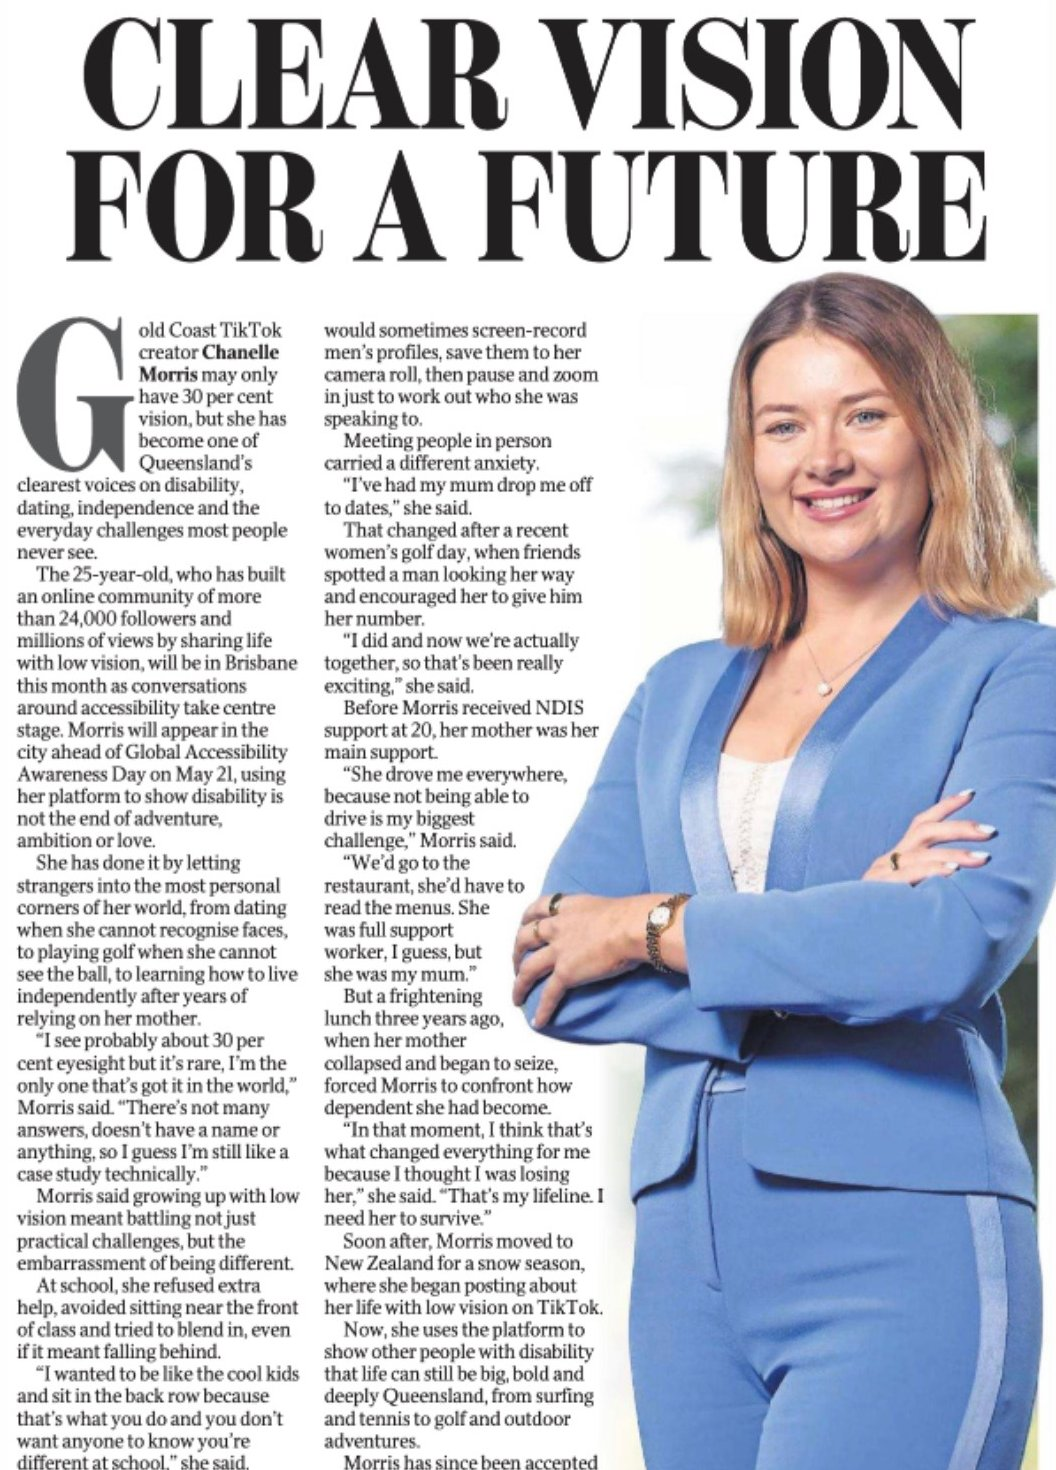
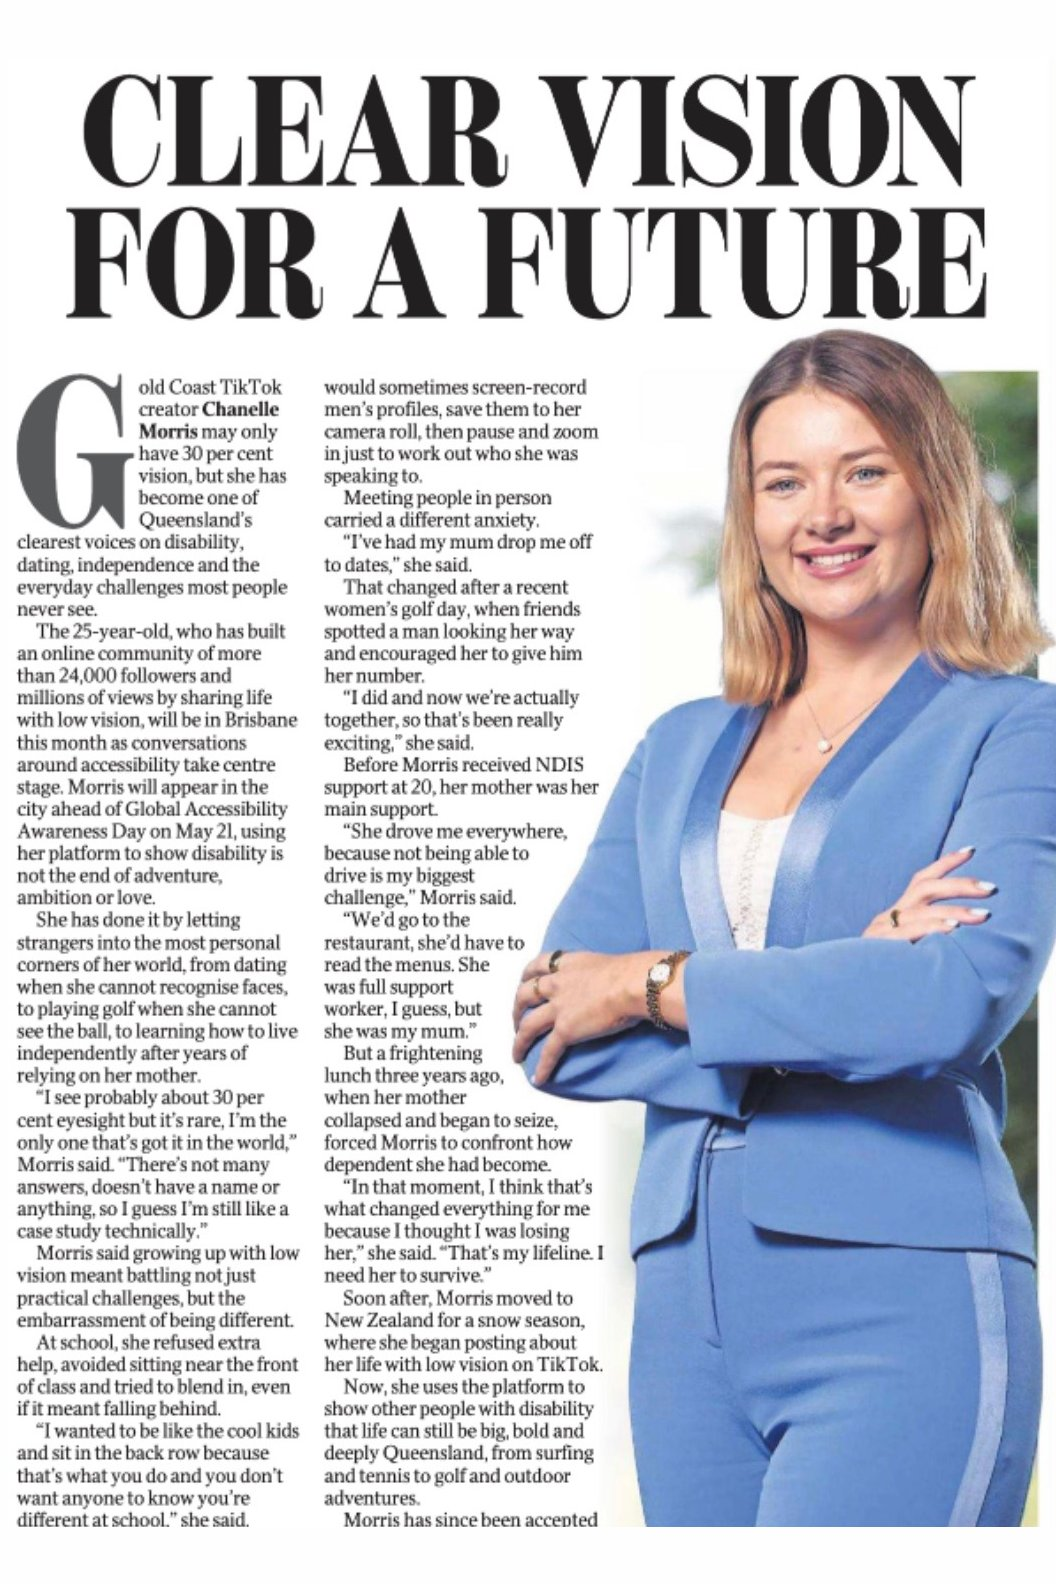
Press section: same size as Get in touch, at the bottom of Media
The newspaper page now sits beside the text in the page-hero layout, at
the same size as the Get in touch photo (padded with paper white to the
site's 2:3 frame), instead of filling the screen. On Media it moves to
the bottom, in green so it doesn't merge with the ink call to action.

diff --git a/style.css b/style.css
@@ -903,127 +903,6 @@ em {
 
 
 /* ==========================================================================
-   Press (Home and Media)
-   ========================================================================== */
-
-/* A full screen: the newspaper article fills it, darkened on the side where
-   the headline sits so the big text stays readable; her photo shows through
-   on the other side. The article's text is blurred in this image (it's
-   texture here); "Read the article" opens the readable page. */
-.press {
-  position: relative;
-  isolation: isolate;
-  display: grid;
-  align-items: center;
-  min-height: var(--screen-h);
-  padding: clamp(2rem, 6svh, 5rem) var(--pad);
-  overflow: hidden;
-  background: var(--ink);
-  color: var(--off-white);
-}
-
-.press__image {
-  position: absolute;
-  inset: 0;
-  z-index: -2;
-  width: 100%;
-  height: 100%;
-  object-fit: cover;
-  object-position: 50% 12%;   /* her face, not the article's last lines */
-}
-
-.press::before {
-  content: "";
-  position: absolute;
-  inset: 0;
-  z-index: -1;
-  background: linear-gradient(to right,
-    rgb(26 20 22 / 0.93) 0%,
-    rgb(26 20 22 / 0.86) 45%,
-    rgb(26 20 22 / 0.2) 75%,
-    rgb(26 20 22 / 0) 100%);
-}
-
-.press__text {
-  max-width: 55%;
-}
-
-.press__label {
-  margin: 0 0 1.25rem;
-  font-size: var(--nav-size);
-  color: var(--pink);
-}
-
-/* The hero name's stretched capitals. Each line is about 3.8em wide, sized to
-   fill the dark side. */
-.press__title {
-  display: grid;
-  gap: 0.2em;
-  margin: 0 0 0.35em;
-  padding-block: 0.06em;
-  font-size: min(13.5vw, 20svh);
-  font-weight: 400;
-  line-height: 1;
-}
-
-.press__title span {
-  display: block;
-  text-box: trim-both cap alphabetic;
-  white-space: nowrap;
-  transform: scaleY(1.15);
-}
-
-.press__quote {
-  margin: 0 0 clamp(1.5rem, 4svh, 2.5rem);
-  max-width: 30em;
-  font-size: clamp(1.25rem, 2vw, 2rem);
-  line-height: 1.15;
-}
-
-.press__quote p {
-  margin: 0;
-}
-
-.press .button:focus-visible {
-  outline-color: var(--off-white);
-}
-
-.press__credit {
-  margin: 1.25rem 0 0;
-  font-size: 1rem;
-  opacity: 0.75;
-}
-
-/* Phones: her photo fills the screen, and the text sits over a dark fade at
-   the bottom. */
-@media (max-width: 700px) {
-  .press {
-    align-items: end;
-  }
-
-  .press__image {
-    object-position: 82% 0;
-  }
-
-  .press::before {
-    background: linear-gradient(to top,
-      rgb(26 20 22 / 0.95) 0%,
-      rgb(26 20 22 / 0.9) 62%,
-      rgb(26 20 22 / 0.25) 85%,
-      rgb(26 20 22 / 0) 100%);
-  }
-
-  .press__text {
-    max-width: none;
-  }
-
-  .press__title {
-    font-size: calc((100vw - 32px) / 3.85);
-  }
-}
-
-
-/* ==========================================================================
    Logos
    ========================================================================== */
 
@@ -1403,6 +1282,7 @@ em {
 .page--what-i-do { --page-colour: var(--blue); }
 .page--media     { --page-colour: var(--green); }
 .contact-cta     { --page-colour: var(--pink); }
+.press           { --page-colour: var(--ink); }
 
 /* Long reading text is in sentence case so it's easy to read; headings,
    labels and short lines stay in capitals. */
@@ -1508,6 +1388,44 @@ em {
 .page-hero__photo {
   justify-self: center;
   width: min(100%, (var(--screen-h) - 6rem) / 1.5);
+}
+
+/* Press (Home and Media): a page hero in ink, the newspaper page as its photo. */
+.press {
+  color: var(--off-white);
+}
+
+.press .page-hero__label {
+  color: var(--pink);
+}
+
+.press blockquote {
+  margin: 0;
+}
+
+.press .button:focus-visible {
+  outline-color: var(--off-white);
+}
+
+.press__credit {
+  margin: 1.25rem 0 0;
+  font-size: 1rem;
+  opacity: 0.75;
+}
+
+/* On Media it sits just above the ink call to action, so it takes the page's
+   green instead. */
+.page--media .press {
+  --page-colour: var(--green);
+  color: var(--ink);
+}
+
+.page--media .press .page-hero__label {
+  color: inherit;
+}
+
+.page--media .press .button:focus-visible {
+  outline-color: var(--ink);
 }
 
 /* --- Journey timeline ------------------------------------------------------- */
@@ -2043,8 +1961,7 @@ em {
   .logos__title,
   .logos__wordmark,
   .contact__title,
-  .page-hero__title span,
-  .press__title span {
+  .page-hero__title span {
     line-height: 0.75;
   }
 }

diff --git a/media.html b/media.html
@@ -83,19 +83,6 @@
       </ul>
     </section>
 
-    <section class="press" id="press" aria-labelledby="press-title">
-      <img class="press__image" src="images/press/clear-vision-feature.jpg" width="1036" height="1200" alt="" loading="lazy" decoding="async">
-      <div class="press__text">
-        <p class="press__label">In the press</p>
-        <h2 class="press__title" id="press-title"><span>Clear vision</span> <span>for a future</span></h2>
-        <blockquote class="press__quote">
-          <p>“One of Queensland’s clearest voices on disability, dating, independence and the everyday challenges most people never see.”</p>
-        </blockquote>
-        <a class="button button--pink" href="images/press/clear-vision-article.jpg" target="_blank" rel="noopener">Read the article<span class="visually-hidden"> (opens the newspaper page as an image)</span></a>
-        <p class="press__credit">Picture: Steve Pohlner</p>
-      </div>
-    </section>
-
     <!-- Coming soon, as Chanelle sends them: "TV and radio", as another
          <section class="cards"> like these. New speeches go in "Speeches"
          above and on motivational-speaking.html. -->
@@ -154,6 +141,23 @@
           </a>
         </li>
       </ul>
+    </section>
+
+    <section class="page-hero press" id="press" aria-labelledby="press-title">
+      <div class="page-hero__text">
+        <p class="page-hero__label">In the press</p>
+        <h2 class="page-hero__title page-hero__title--long" id="press-title"><span>Clear vision</span> <span>for a future</span></h2>
+        <blockquote class="prose page-hero__intro">
+          <p>“One of Queensland’s clearest voices on disability, dating, independence and the everyday challenges most people never see.”</p>
+        </blockquote>
+        <div class="page-hero__buttons">
+          <a class="button button--pink" href="images/press/clear-vision-article.jpg" target="_blank" rel="noopener">Read the article<span class="visually-hidden"> (opens the newspaper page as an image)</span></a>
+        </div>
+        <p class="press__credit">Picture: Steve Pohlner</p>
+      </div>
+      <figure class="page-hero__photo">
+        <img src="images/press/clear-vision-article.jpg" width="1056" height="1584" alt="The newspaper article ‘Clear vision for a future’, with a photo of Chanelle in a blue suit" loading="lazy" decoding="async">
+      </figure>
     </section>
 
     <section class="cta-band">

diff --git a/index.html b/index.html
@@ -165,18 +165,22 @@
       <a class="button media__more" href="media.html">See all media</a>
     </section>
 
-    <!-- Press feature: a newspaper article, full screen behind big text. Also on media.html. -->
-    <section class="press" aria-labelledby="press-title">
-      <img class="press__image" src="images/press/clear-vision-feature.jpg" width="1036" height="1200" alt="" loading="lazy" decoding="async">
-      <div class="press__text">
-        <p class="press__label">In the press</p>
-        <h2 class="press__title" id="press-title"><span>Clear vision</span> <span>for a future</span></h2>
-        <blockquote class="press__quote">
+    <!-- Press feature: big text beside the newspaper page. Also on media.html. -->
+    <section class="page-hero press" aria-labelledby="press-title">
+      <div class="page-hero__text">
+        <p class="page-hero__label">In the press</p>
+        <h2 class="page-hero__title page-hero__title--long" id="press-title"><span>Clear vision</span> <span>for a future</span></h2>
+        <blockquote class="prose page-hero__intro">
           <p>“One of Queensland’s clearest voices on disability, dating, independence and the everyday challenges most people never see.”</p>
         </blockquote>
-        <a class="button button--pink" href="images/press/clear-vision-article.jpg" target="_blank" rel="noopener">Read the article<span class="visually-hidden"> (opens the newspaper page as an image)</span></a>
+        <div class="page-hero__buttons">
+          <a class="button button--pink" href="images/press/clear-vision-article.jpg" target="_blank" rel="noopener">Read the article<span class="visually-hidden"> (opens the newspaper page as an image)</span></a>
+        </div>
         <p class="press__credit">Picture: Steve Pohlner</p>
       </div>
+      <figure class="page-hero__photo">
+        <img src="images/press/clear-vision-article.jpg" width="1056" height="1584" alt="The newspaper article ‘Clear vision for a future’, with a photo of Chanelle in a blue suit" loading="lazy" decoding="async">
+      </figure>
     </section>
 
     <section class="logos" aria-labelledby="logos-title">
